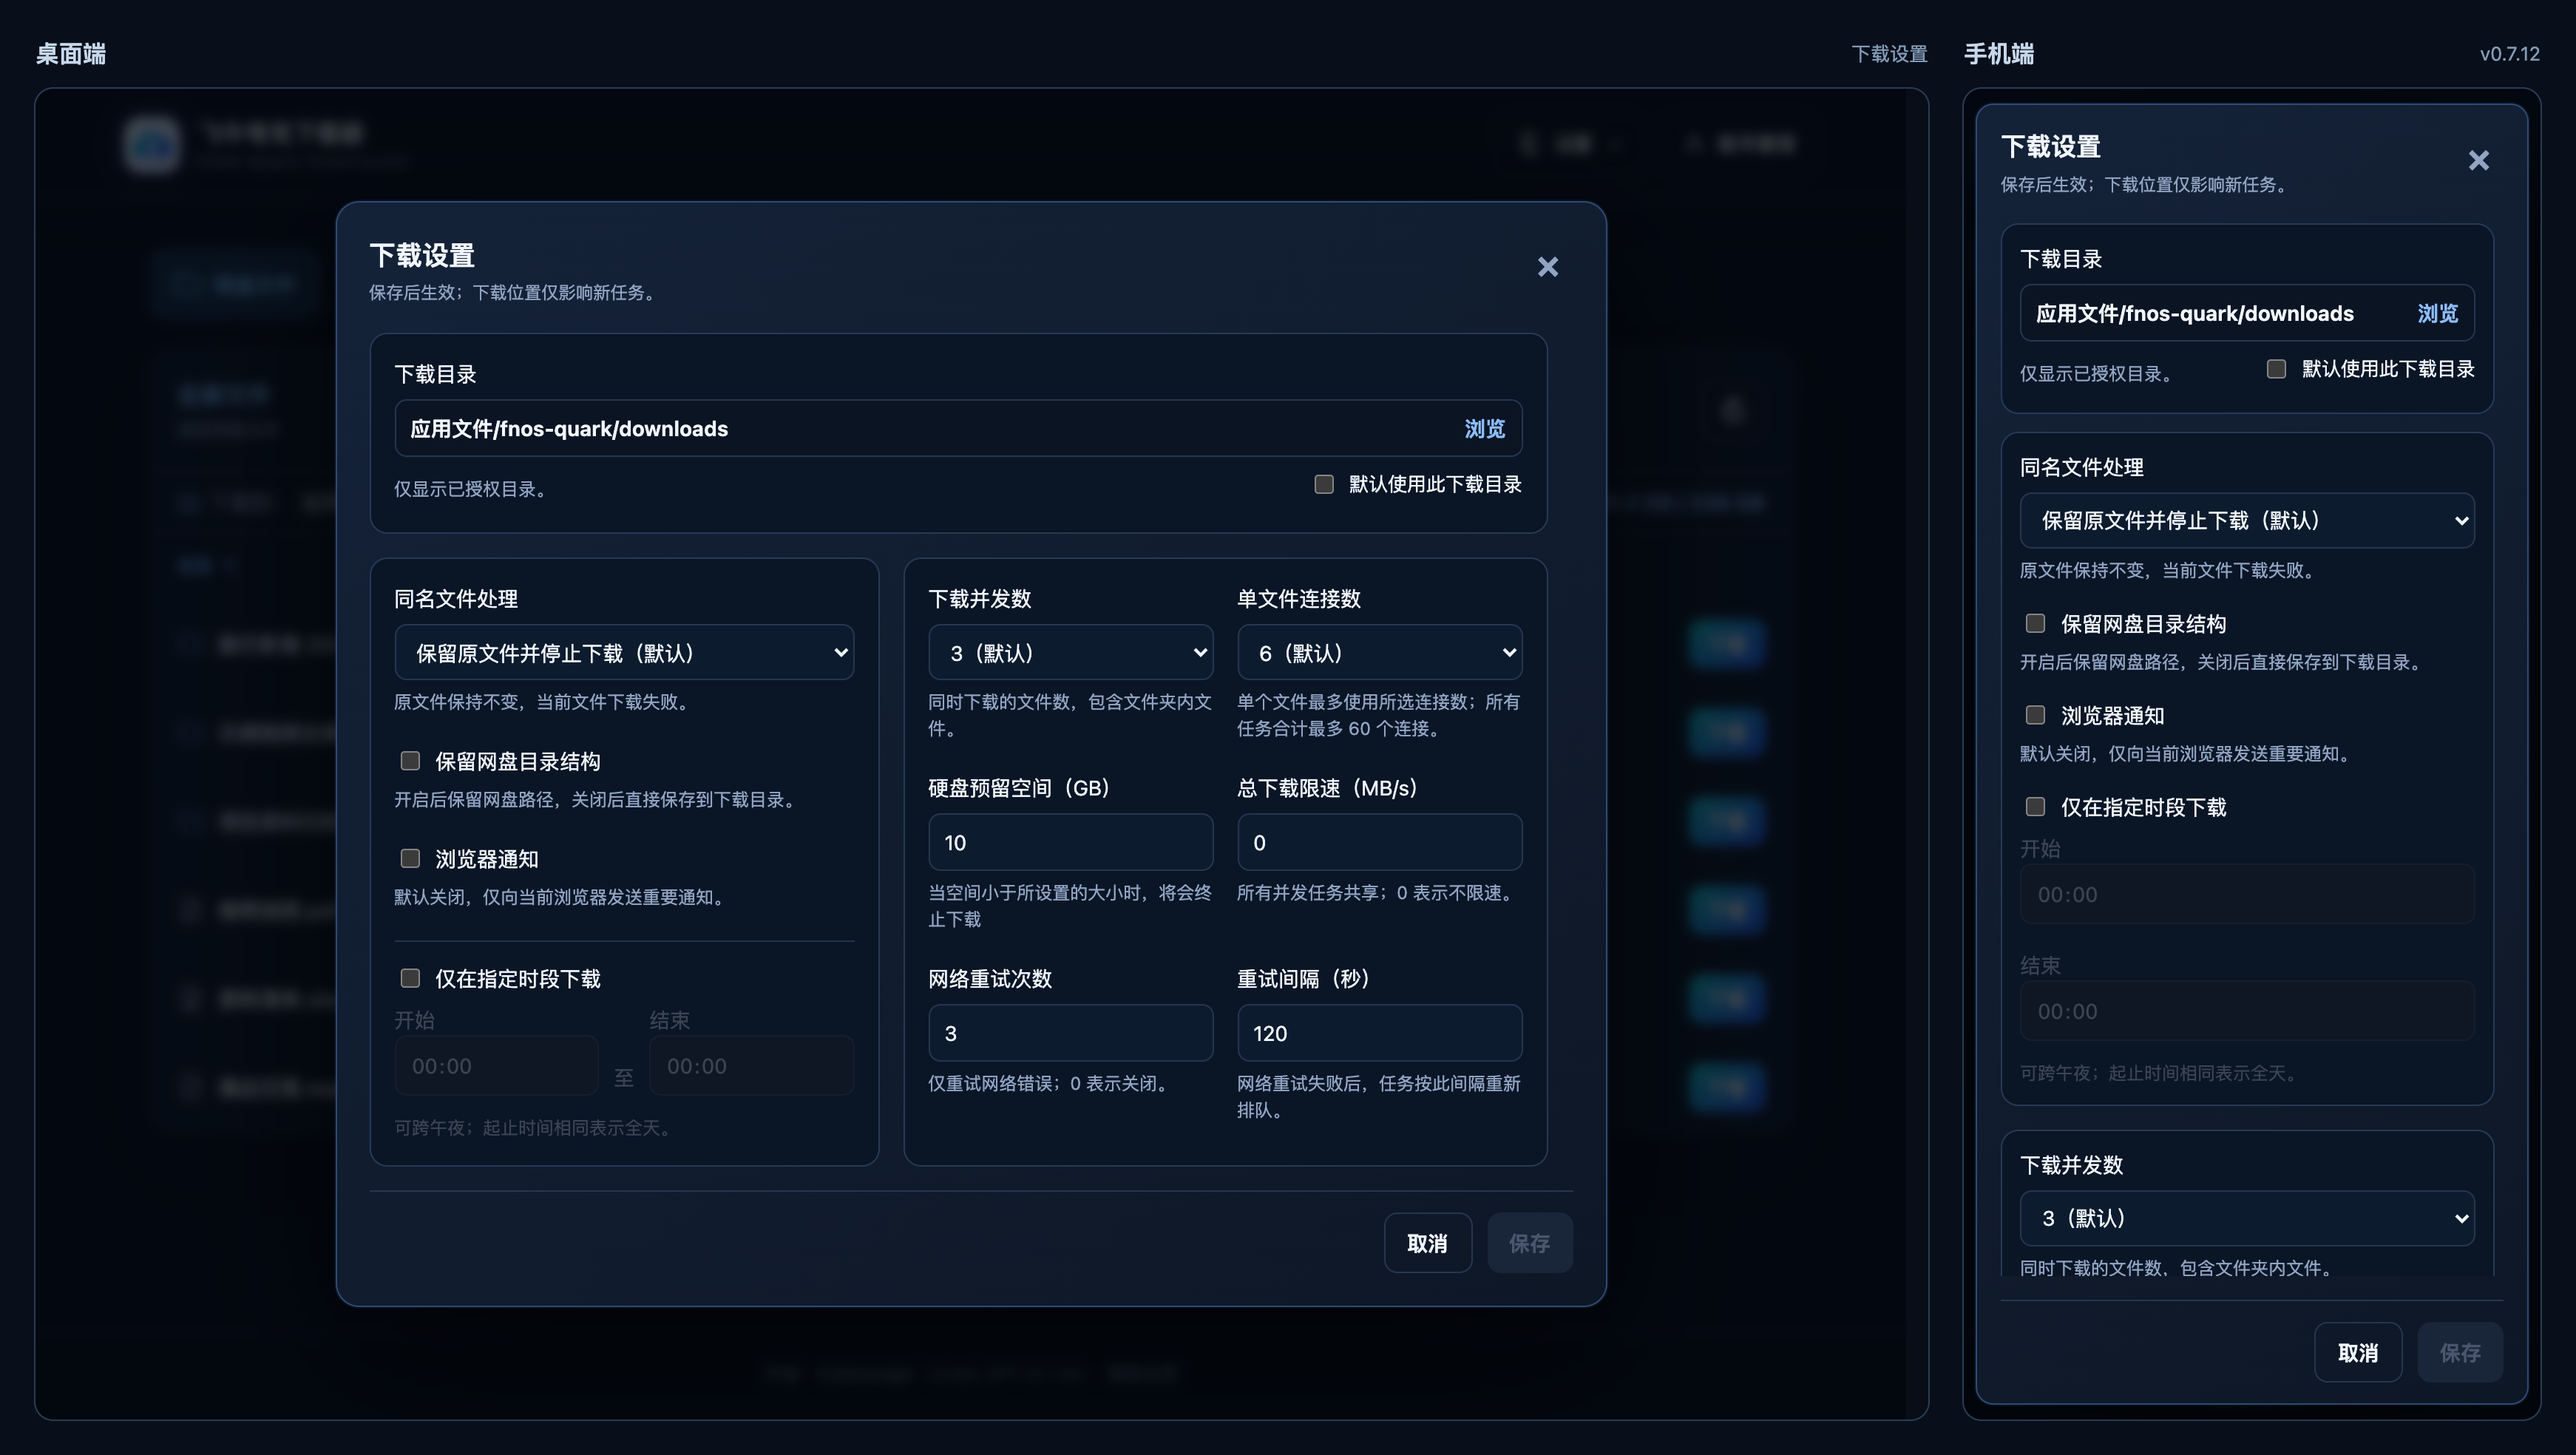
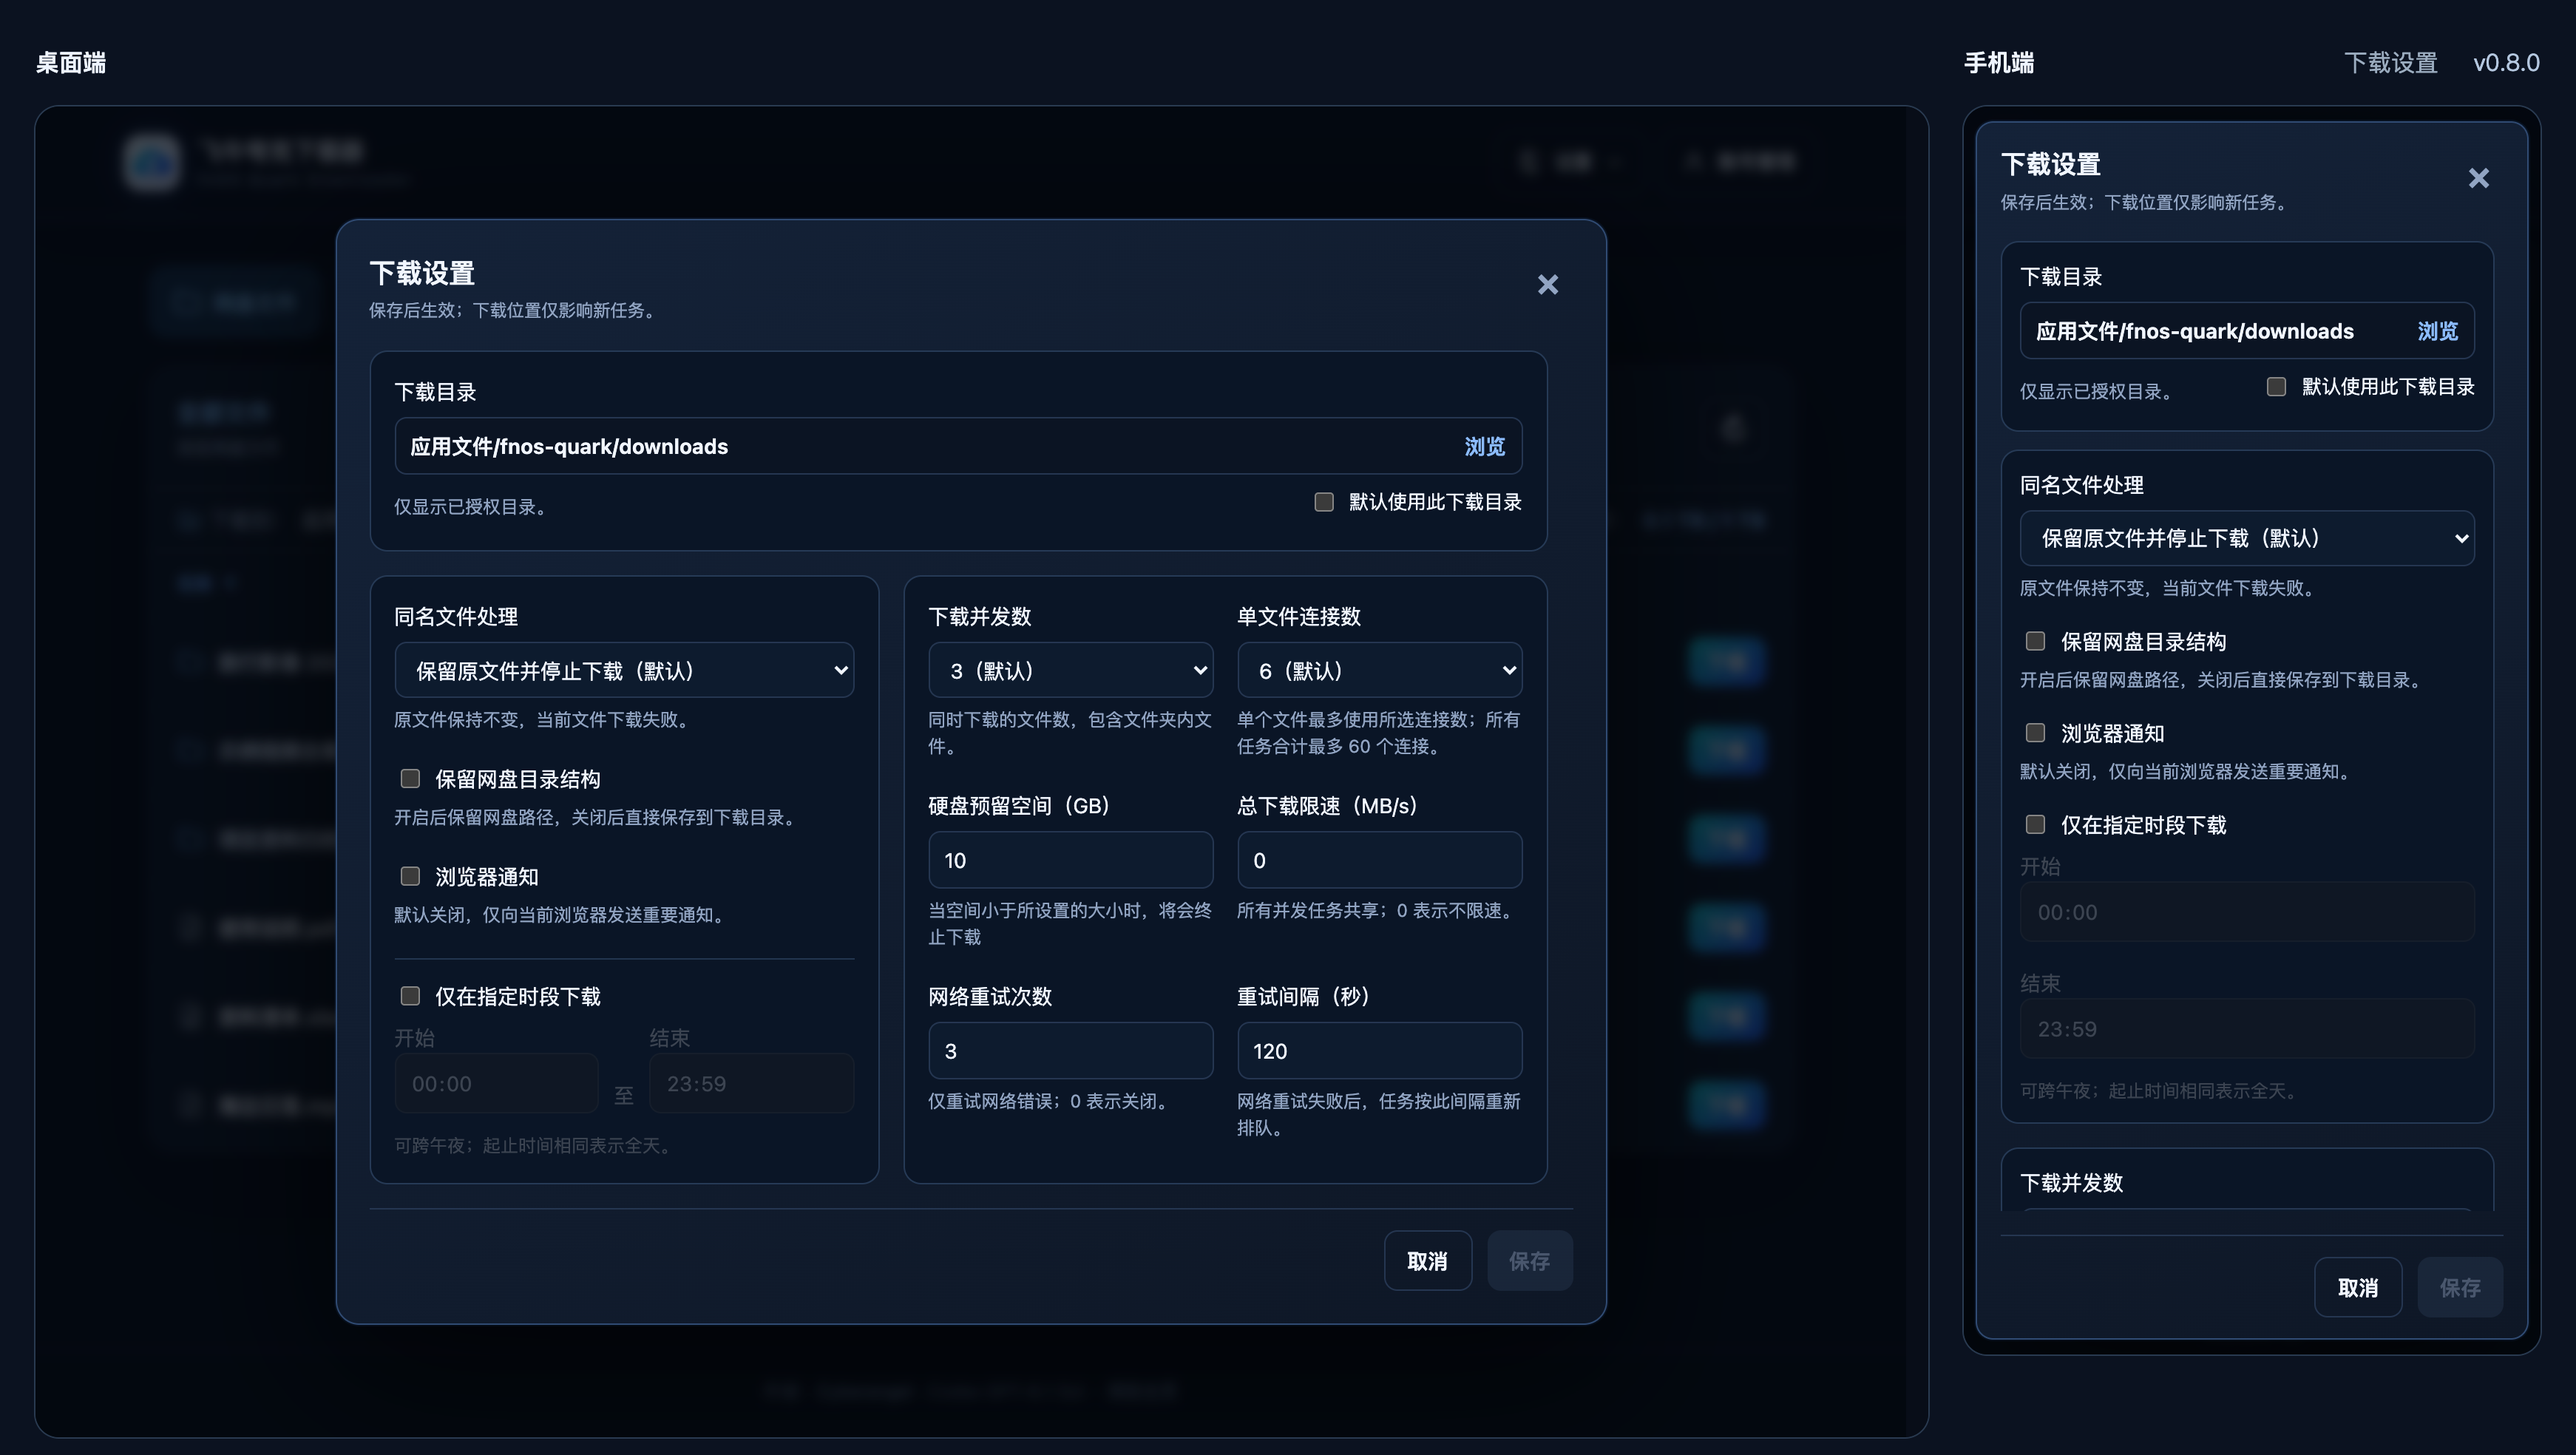
docs: release v0.8.0

diff --git a/README.md b/README.md
@@ -1,35 +1,38 @@
 # 飞牛夸克下载器
 
-面向 fnOS 的夸克网盘第三方下载器，可在网页浏览网盘并下载到 NAS。最低支持 fnOS `1.1.8`。
+面向 fnOS 的夸克网盘第三方下载器，通过网页浏览网盘，将文件下载到本地目录。最低支持 fnOS `1.1.8`。
 
 > [!IMPORTANT]
 > 本项目与夸克网盘及其运营方无隶属、合作或授权关系，不提供网盘限速破解、访问控制绕过或未授权访问。下载速度取决于夸克服务、账号权益和网络环境。为防止滥用，暂不提供 docker 版本。
 
+> [!WARNING]
+> 由于代码的历史遗留问题，v0.7.6 及之前的旧版本无法正常的更新至最新版本，请移步到飞牛应用中心卸载并手动安装最新版本。
+> 卸载时保留“应用文件/fnos-quark”和其他下载目录；重新安装后会迁移保留下来的配置和任务。
+
 ## 下载
 
-v0.7.12 安装包以本仓库的 [GitHub Releases](../../releases/latest) 实际发布为准，下载时选择对应架构：
+当前版本 v0.8.0。下载见 [GitHub Releases](../../releases/latest)。
 
 | 架构 | 安装包 |
 | --- | --- |
-| x86_64 | `fnos-quark-0.7.12-x86_64.fpk` |
-| ARM64 | `fnos-quark-0.7.12-arm64.fpk` |
+| x86_64 | `fnos-quark-0.8.0-x86_64.fpk` |
+| ARM64 | `fnos-quark-0.8.0-arm64.fpk` |
 
 对照 Release 的 `SHA256SUMS` 校验文件，不一致时重新下载：
 
 ```bash
-sha256sum fnos-quark-0.7.12-x86_64.fpk
+sha256sum fnos-quark-0.8.0-x86_64.fpk
 ```
 
-应用中心显示安装时记录的版本，实际版本请在应用内查看。
+通过内置更新功能升级后，应用中心的版本号不会同步更新；以「设置」菜单底部显示的版本号为准。
 
 ## 主要功能
 
 - 网盘浏览与排序，文件、文件夹下载和目录结构保留
 - 扫码或 Cookie 登录，暂停、恢复、重试、优先下载和断点续传
-- 多目录增量同步、下载设置、任务进度、预计剩余时间和速度曲线
-- 浏览器通知、日志筛选、诊断导出和应用内更新；适配桌面、平板和手机，刷新保持当前页面
-
-手机端点击目标硬盘占用右侧的排序图标，可按名称、大小或更新时间排序。
+- 增量同步，支持固定间隔、每天、每周和 Cron 计划
+- 下载设置、预计剩余时间、速度曲线、浏览器通知、诊断导出和应用内更新
+- 适配桌面与手机，支持跟随系统、浅色和深色外观
 
 ![网盘浏览（左：桌面端，右：手机端）](assets/screenshots/cloud-files.png)
 
@@ -38,23 +41,21 @@ sha256sum fnos-quark-0.7.12-x86_64.fpk
 1. 在 fnOS“应用中心”手动安装对应架构的 FPK。
 2. 从 `应用文件/fnos-quark/config/access_token_settings.json` 复制 `token`。
 3. 打开应用，同意使用协议并输入访问令牌。
-4. 在“账号管理”中使用夸克网盘 App 扫码登录，也可选择 Cookie 登录。
-
-“账号管理”可查看昵称、会员身份、到期日期和网盘空间，并刷新资料。
+4. 在“账号管理”中使用夸克网盘 App 扫码登录，或选择 Cookie 登录。
 
 浏览器和飞牛 App 保存验证状态；清除网页数据、更换地址或修改令牌后需重新验证。
 
-退出或 Cookie 失效会暂停任务；重新登录原账号可恢复相关任务，进度和记录保留。手动暂停的任务需自行恢复。
+退出或 Cookie 失效会暂停任务，进度和记录保留；重新登录原账号可恢复，手动暂停的任务需自行恢复。
 
-更换账号前，先删除全部同步关系（含暂停、失效项），再完成其余未完成下载，或取消后删除记录；失败和已取消的记录也需删除，已完成的历史记录无需删除。
+更换账号前，删除全部同步关系（含暂停、失效项），完成或取消其余下载，并删除未完成、失败及已取消的记录；已完成历史无需删除。
 
-升级方式与数据兼容性见 [Release 升级说明](../../releases/latest)。
+升级方式见 [Release 升级说明](../../releases/latest)。
 
 ## 数据目录
 
 ```text
 应用文件/fnos-quark/
-├── config/       访问令牌、登录信息和下载/同步设置
+├── config/       访问令牌、登录信息、外观、支持作者偏好和下载/同步设置
 ├── data/         任务、通知及运行状态
 ├── downloads/    默认下载文件
 └── logs/         日志及崩溃报告
@@ -78,7 +79,7 @@ sha256sum fnos-quark-0.7.12-x86_64.fpk
 | 网络错误自动重试 | 默认 3 次、间隔 120 秒；0 次关闭 |
 | 浏览器通知 | 默认关闭；仅通知当前浏览器，须保持网页打开并授予通知权限；HTTP 页面可能不可用 |
 
-在“设置 → 下载设置”点击“浏览”选择默认目录，授权父目录后可逐级进入子目录。未勾选“默认使用此下载目录”时，每次下载选择保存位置；勾选后直接下载。单次选择不改变默认目录，取消不创建任务。
+在“设置 → 下载设置”选择已授权的目录或子目录。未勾选“默认使用此下载目录”时，每次下载单独选目录，不改变默认设置；取消不创建任务。
 
 目录、目录结构和同名处理只影响新任务。
 
@@ -86,34 +87,59 @@ sha256sum fnos-quark-0.7.12-x86_64.fpk
 
 ## 任务规则
 
-关闭网页后下载仍会继续，暂停或取消在任务页操作。未完成任务排在历史记录前；文件夹任务可展开查看进度和失败原因。暂停任务后可单独恢复子文件，或用“恢复全部下载”恢复暂停的文件。排队中的子文件可优先下载或取消，开始传输后可暂停。
+- 关闭网页后下载仍会继续。文件夹任务可展开查看进度和失败原因。
+- 暂停后可单独恢复子文件，或点击“恢复全部下载”；排队中的子文件可优先下载或取消。
+- 取消单文件删除未完成的临时文件；取消文件夹可选择保留或删除已完成文件。
+- 删除记录不删除已完成文件；清空仅处理已完成、失败和已取消的记录。
 
 ![下载任务（左：桌面端，右：手机端）](assets/screenshots/download-tasks.png)
 
-取消单文件删除未完成的临时文件；取消文件夹可选择保留或删除已完成文件。删除记录不删除已完成文件，清空仅处理已完成、失败和已取消的记录。
-
 ## 同步、网速与更新
 
-- **增量同步**：在“设置 → 同步设置”选择网盘文件夹和保存目录，默认每 60 分钟检查。首次下载已有内容，之后只下载识别为新增的内容，不持续校对或更新旧文件；云端删除不影响本地文件，本地已完成文件被移走或删除后需手动下载。来源目录或上级目录移动、改名、删除后须重新建立同步。删除同步任务取消未完成下载，保留已完成文件。
-- **网速详情**：显示最近 10 分钟的总速度和单文件曲线，已完成曲线变暗并保留至窗口结束；重启清空速度历史。
+### 增量同步
 
-  ![网速详情（左：桌面端，右：手机端）](assets/screenshots/speed-details.png)
+在“设置 → 同步设置”依次选择网盘文件夹、保存位置和执行计划。保存位置默认追加网盘文件夹名，可修改或留空；创建前确认最终路径。
 
-- **应用更新**：在“设置 → 检查更新”查看更新日志并安装，支持自动选择、GitHub 直连、GH-Proxy 和自定义 HTTPS 代理。关闭窗口后更新包仍会继续下载；如需换线，先取消并等待清理。失败后按提示重试。
+| 检查方式 | 说明 |
+| --- | --- |
+| 固定间隔 | 默认每 60 分钟检查，可设为 1 分钟至 7 天 |
+| 每天 / 每周 | 指定时间执行；每周可多选星期 |
+| Cron | 五段“分 时 日 月 星期”；`0 22 * * 6` 表示每周六 22:00 |
 
-“更新线路”自动保存。自定义代理填写完整的“GitHub 代理地址”，离开输入框或按回车保存；清空并保存会删除地址并恢复“自动选择”，只切换线路会保留地址。
+计划按窗口显示的下载器时区执行，可预览接下来 3 次检查。首次同步可选创建后开始或等到计划时间；默认开启“错过计划后补查一次”，手动暂停时不执行。
 
-自动选择会在失败时尝试其他线路，手动选择只使用指定线路。“检测延迟”仅供选线参考。
+- 首次下载已有内容，之后只下载识别为新增的内容，不更新旧文件。
+- 云端删除不影响本地文件；本地文件移走或删除后需手动下载。
+- 来源目录或上级目录移动、改名、删除后须重新建立同步。
+- 删除同步任务取消未完成下载，保留已完成文件。
 
-请选择可信更新线路。安装包会校验大小和 SHA-256，但尚未验证发布者签名；同一代理可能同时篡改安装包和校验信息。
+### 网速详情
+
+显示最近 10 分钟的总速度和单文件曲线，重启清空速度历史。
+
+![网速详情（左：桌面端，右：手机端）](assets/screenshots/speed-details.png)
+
+### 应用更新
+
+v0.7.7 及以后版本可在“设置 → 检查更新”查看说明并安装。更新包在关闭窗口后继续下载；换线前须取消并等待清理，失败后按提示重试。
+
+- 线路支持自动选择、GitHub 直连、GH-Proxy 和自定义 HTTPS 代理，自动保存；自动选择失败后尝试其他线路。
+- 自定义代理填写完整地址，离开输入框或按回车保存；清空并保存后恢复自动选择，切换线路会保留地址。
+- “检测延迟”仅供选线参考。请选择可信代理：大小和 SHA-256 校验不能代替发布者签名，同一代理可能同时篡改安装包和校验信息；当前尚未验证发布者签名。
 
 ## 日志与诊断
 
-支持日志搜索、分类和级别筛选。手机端点击“筛选”选择条件，滑到日志末尾可加载更早记录。“清除”只清空网页日志，不删除日志文件。异常退出会保存崩溃报告并自动重启。
+在“设置 → 日志与诊断”搜索日志、按分类和级别筛选；手机端点击“筛选”。“清除”只清空网页日志，不删除日志文件。异常退出会保存崩溃报告并自动重启。
 
 ![日志与诊断（左：桌面端，右：手机端）](assets/screenshots/logs-diagnostics.png)
 
-诊断包包含运行信息、更新线路和延迟检测结果、脱敏日志、通知和崩溃报告。不含 Cookie、访问令牌、自定义代理地址或下载文件内容，但可能含文件名和路径，分享前请检查。
+诊断包包含运行信息、更新线路和延迟检测结果、脱敏日志、通知和崩溃报告，以及外观、支持作者偏好和同步计划状态。导出只读取已有状态。不含 Cookie、访问令牌、自定义代理地址或下载文件内容，但可能含文件名和路径，分享前请检查。
+
+## 外观与打赏
+
+- **外观**：在“设置 → 外观”选择浅色、深色或跟随系统（默认）。设置自动保存并在浏览器间共享，重启后保留。
+- **支持作者**：在“设置 → 支持作者”通过微信或支付宝自愿打赏。
+- **鸣谢**：查看项目贡献者和开源组件。
 
 ## 常见问题
 
